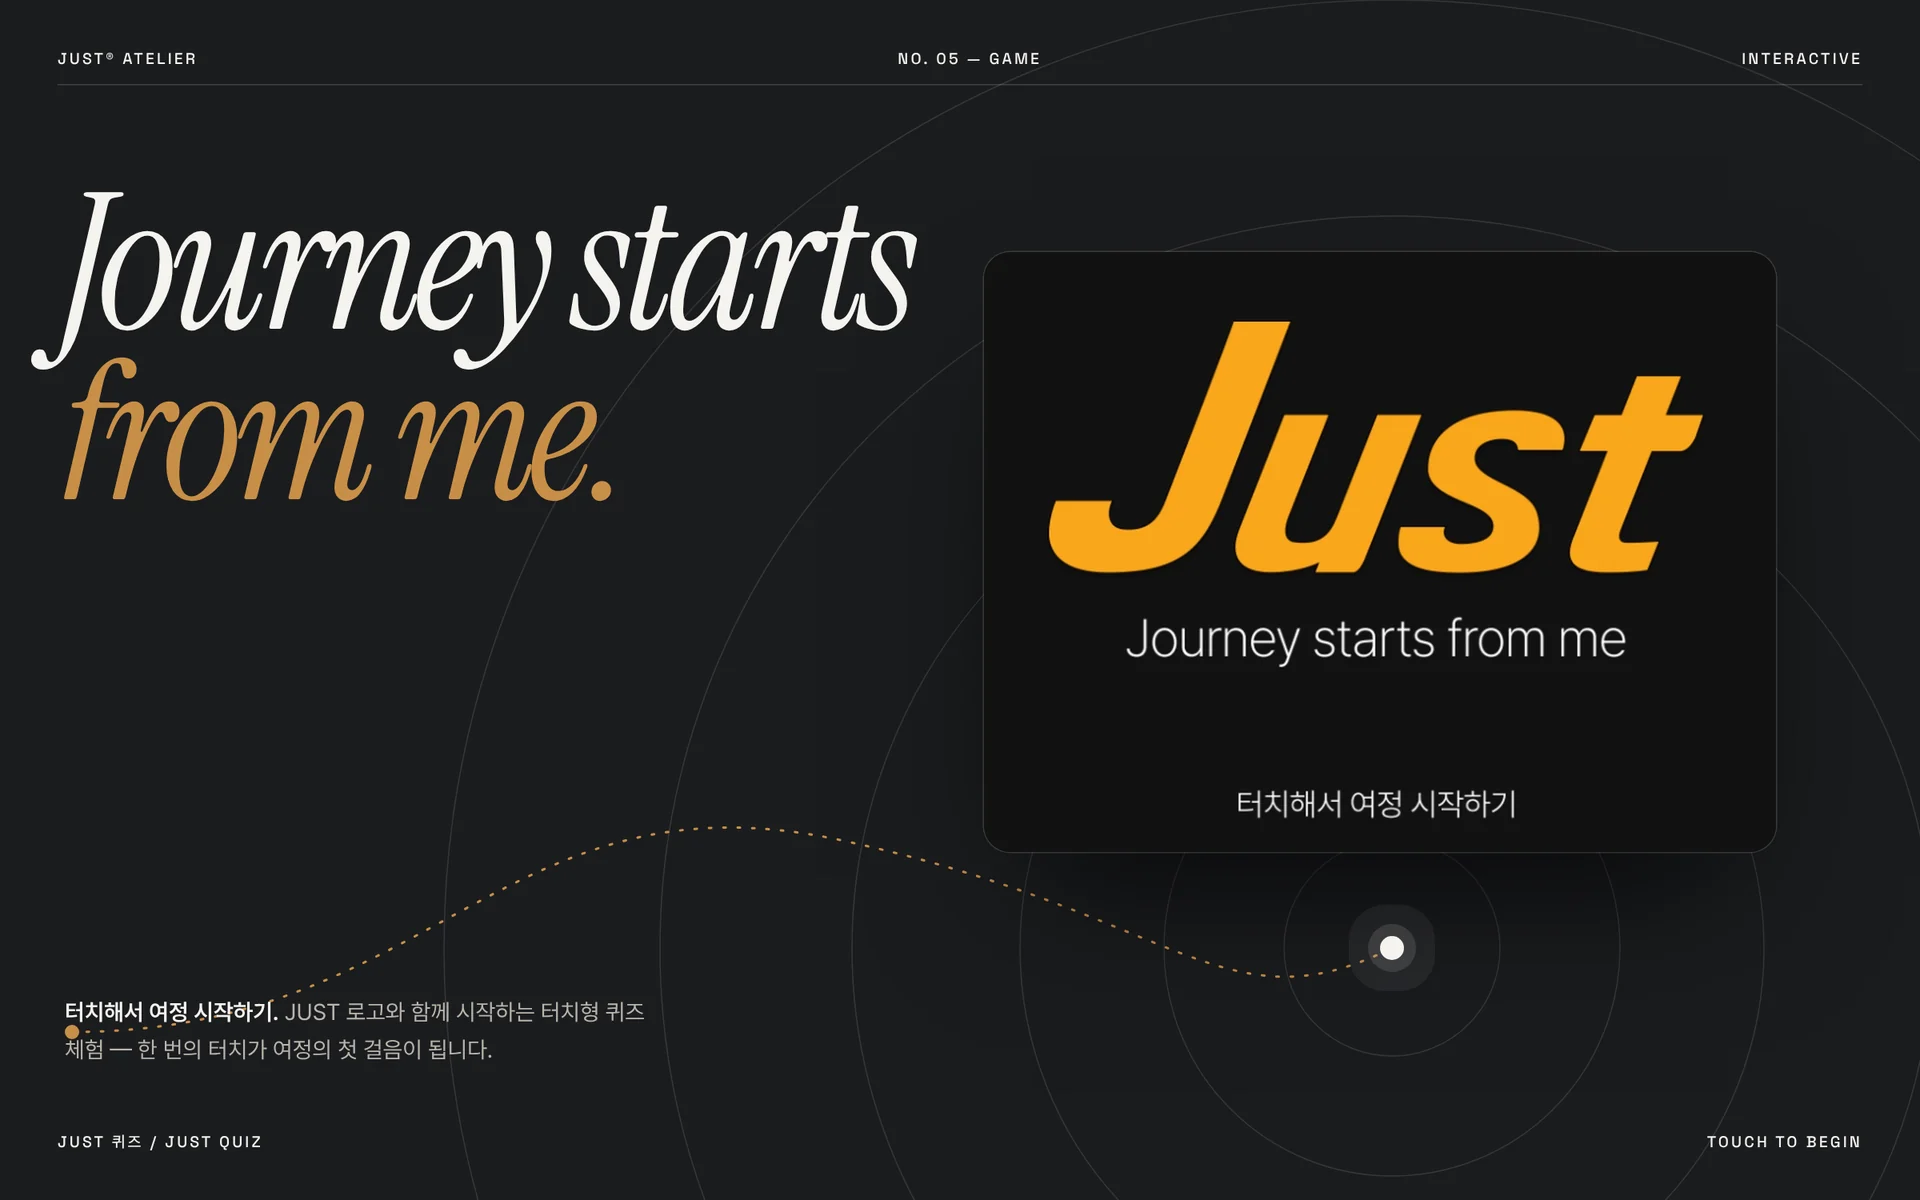
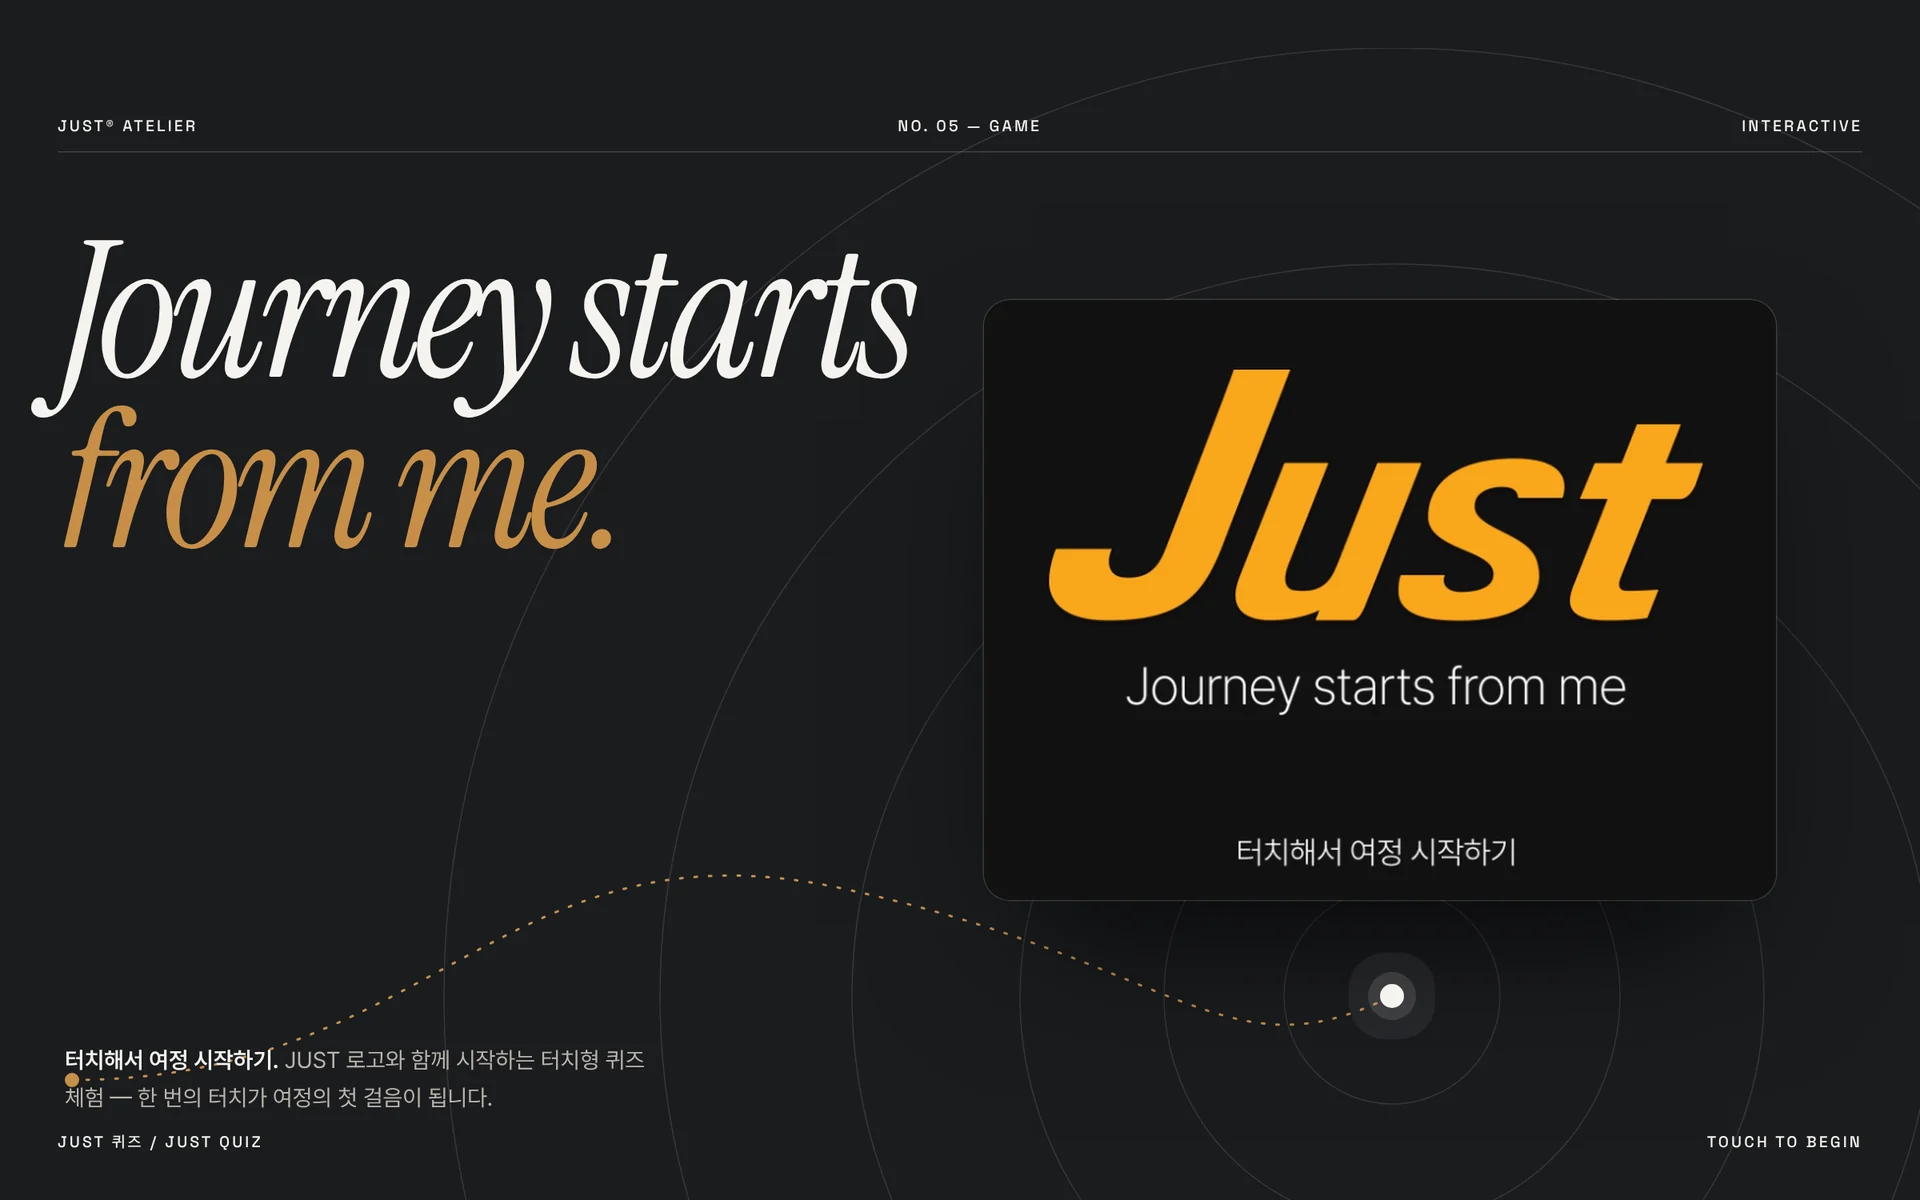
Key visuals: clear the site header on full-bleed project heroes
The poster frame's top row moves below the header zone and content
shifts with it, so navigation never collides with poster typography.

Claude-Session: https://claude.ai/code/session_01FkKqhWw8HiSZUiRnbrrqDT

diff --git a/tools/keyvisuals/kv.css b/tools/keyvisuals/kv.css
@@ -11,10 +11,12 @@ body { position: relative; font-family: 'Space Grotesk', 'Pretendard', sans-seri
 .kr { font-family: 'Pretendard', sans-serif; }
 .caps { font-size: 13px; font-weight: 500; letter-spacing: 0.16em; text-transform: uppercase; }
 /* Shared frame: identical across the five posters so they read as one series. */
-.frame { position: absolute; inset: 40px 48px; pointer-events: none; z-index: 20; }
+.frame { position: absolute; inset: 96px 48px 40px; pointer-events: none; z-index: 20; }
 .frame .top, .frame .bottom { position: absolute; left: 0; right: 0; display: flex; justify-content: space-between; }
 .frame .top { top: 0; }
 .frame .bottom { bottom: 0; }
 .frame .rule { position: absolute; left: 0; right: 0; top: 30px; height: 1px; background: currentColor; opacity: 0.18; }
 .shot { position: absolute; overflow: hidden; background: #111; }
 .shot img { display: block; width: 100%; height: 100%; object-fit: cover; }
+/* Content sits below the frame's top row, which clears the site header on full-bleed heroes. */
+body > :not(.frame) { translate: 0 40px; }

diff --git a/tools/keyvisuals/just-speed.html b/tools/keyvisuals/just-speed.html
@@ -9,8 +9,8 @@ body { background: #050506; color: #f5f3ee; }
 .timer small { font-size: 40px; }
 .rule2 { font-size: 22px; line-height: 1.5; color: #c9c4ba; }
 .level { font-size: 13px; letter-spacing: .18em; color: #c88f47; }
-.ui { position: absolute; right: 56px; bottom: 100px; width: 360px; height: 280px; z-index: 5; border-radius: 10px; box-shadow: 0 0 0 1px rgba(245,243,238,0.18); }
-.bar { position:absolute; left: 48px; right: 48px; bottom: 88px; height: 2px; background: rgba(245,243,238,.12); z-index: 5;}
+.ui { position: absolute; right: 56px; bottom: 150px; width: 360px; height: 280px; z-index: 5; border-radius: 10px; box-shadow: 0 0 0 1px rgba(245,243,238,0.18); }
+.bar { position:absolute; left: 48px; right: 48px; bottom: 132px; height: 2px; background: rgba(245,243,238,.12); z-index: 5;}
 .bar i { position:absolute; left:0; top:0; bottom:0; width: 38%; background:#f5f3ee; }
 </style></head><body>
 <div class="frame"><div class="top caps"><span>JUST® Atelier</span><span>No. 04 — Game</span><span>Speed Challenge</span></div><div class="rule"></div>
